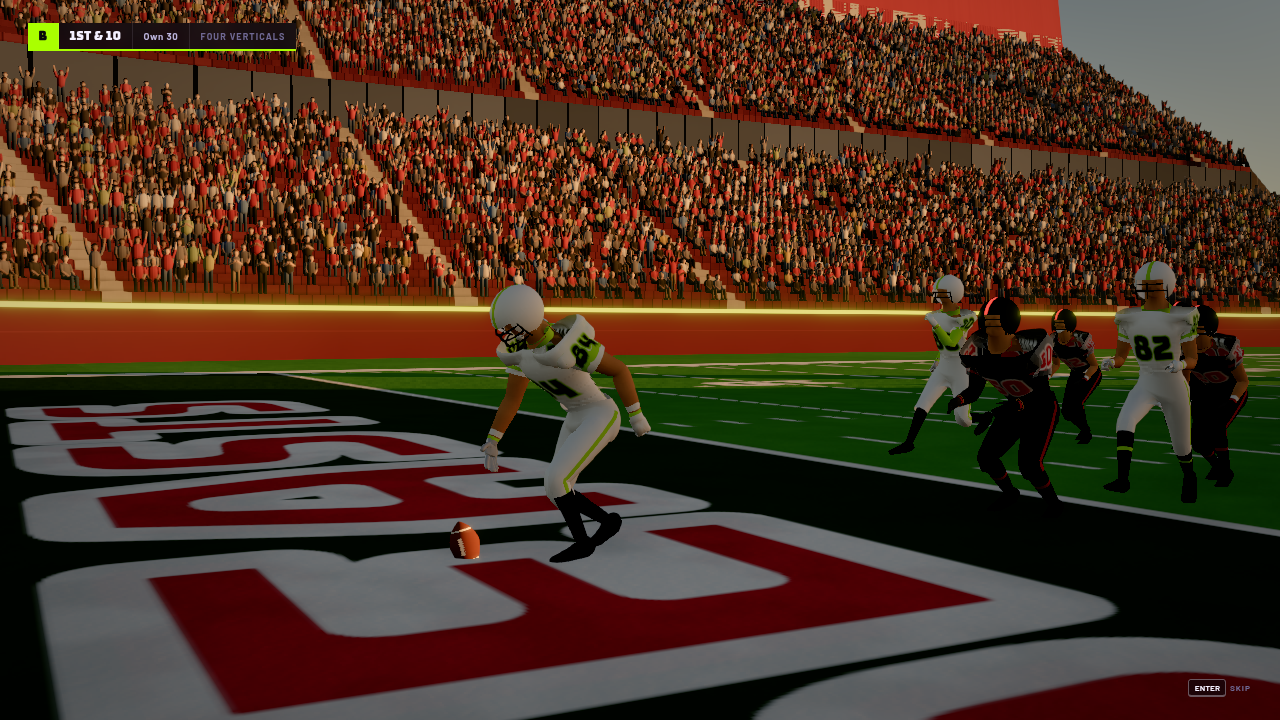
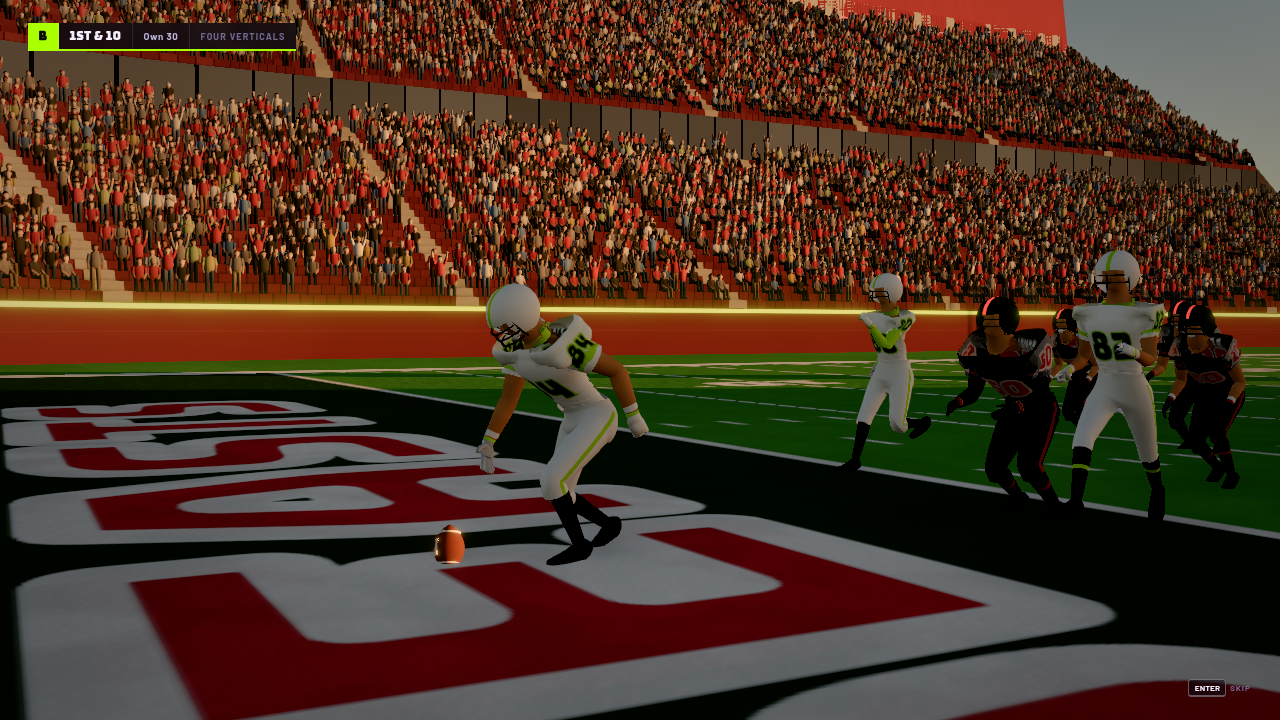
Celebration stills: the spike, the leap, the card after; the gallery can resume
Claude-Session: https://claude.ai/code/session_018H9uG4L4sdgP7HmQwv8UZZ

diff --git a/tools/shots/celebrate.spec.ts b/tools/shots/celebrate.spec.ts
@@ -137,7 +137,8 @@ test('celebrations · the prompt, a pick, the celebration, the card', async ({ p
   await until(page, (w) => w.__btbCelebUi.getState().phase === 'choose');
   await frame(page);
   await still(page, PAD ? 'celeb-01-prompt-pad' : 'celeb-02-prompt-keys');
-  let first = true;
+  // The first in the list plays out to the card (BTB_CELEB_ONLY without "card": none does).
+  let first = !ONLY || ONLY.includes('card');
   let scored = true;
   for (const g of GALLERY) {
     if (ONLY && !ONLY.includes(g.id)) continue;
@@ -163,7 +164,7 @@ test('celebrations · the prompt, a pick, the celebration, the card', async ({ p
       // The first plays out to the card (the team-mate's high five on the way); the rest are skipped once shot (frames are slow here).
       first = false;
       await until(page, (w) => w.__btbCelebUi.getState().phase === 'done');
-      for (let k = 0; k < 4; k++) await frame(page);
+      for (let k = 0; k < 15; k++) await frame(page); // the camera eases back under the card
       await still(page, 'celeb-03-after-card');
     } else await ev(page, (w) => w.__btbCeleb.skip());
   }
